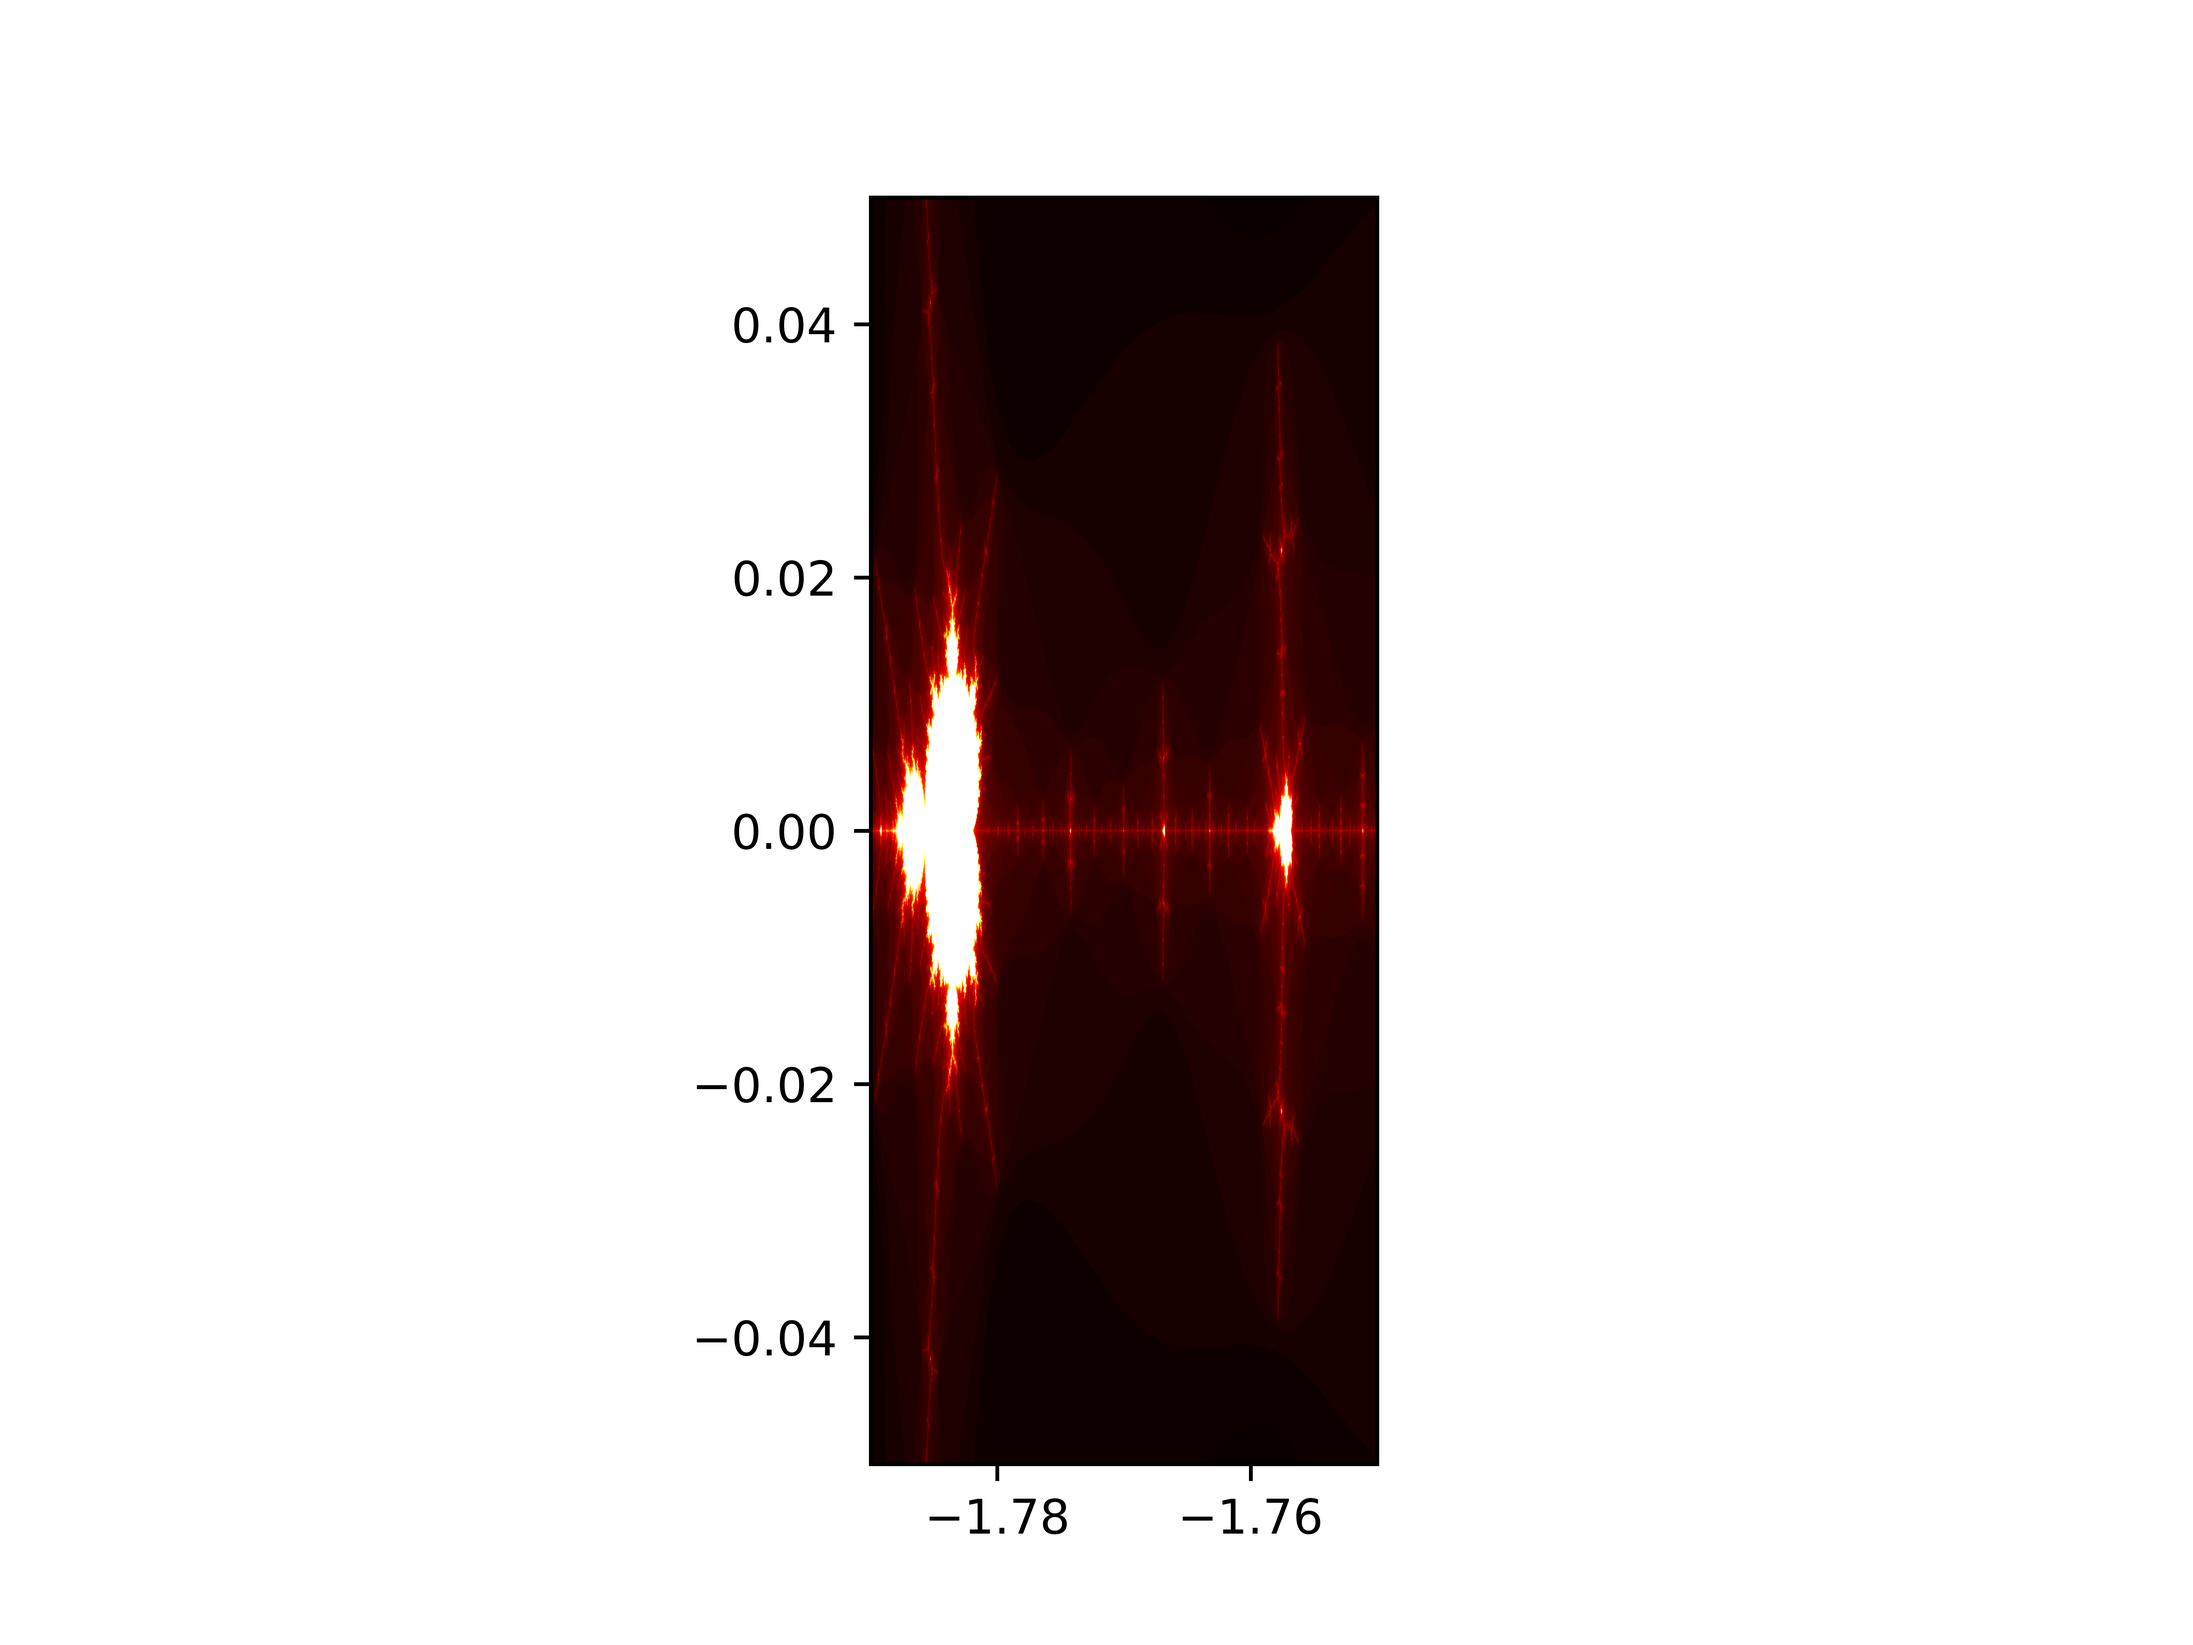
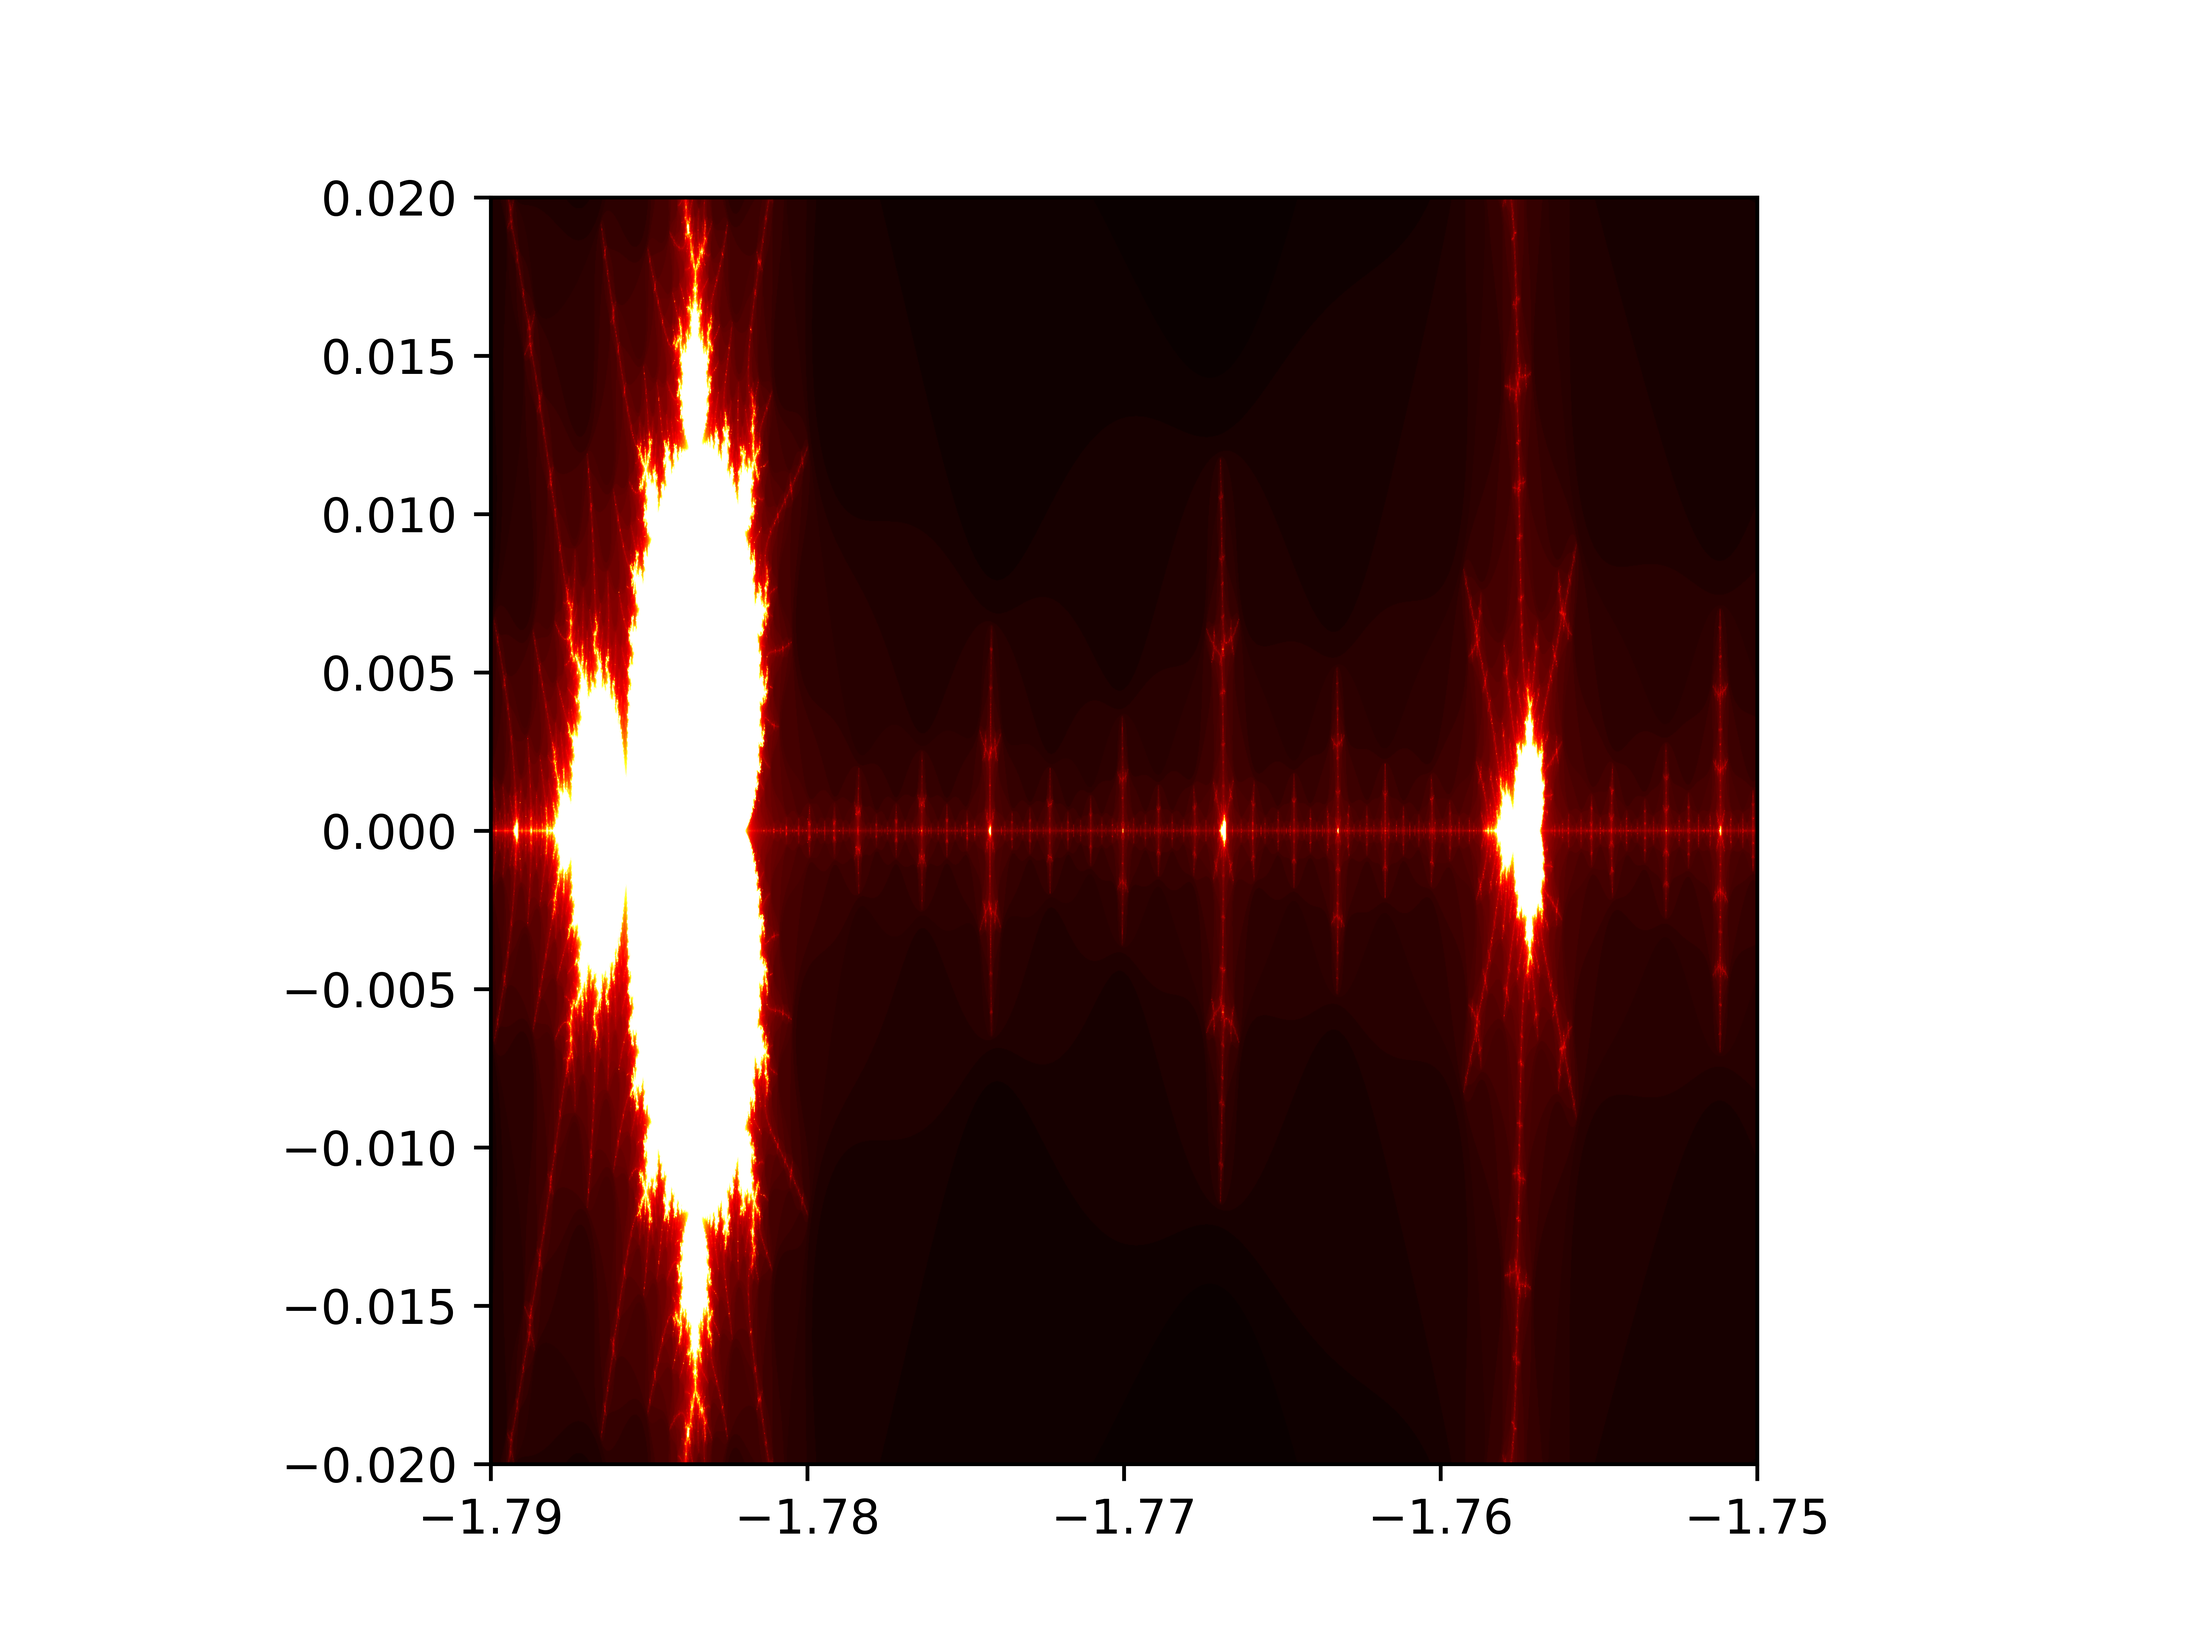
from Pycharm

diff --git a/Mandelbrot3.py b/Mandelbrot3.py
@@ -16,12 +16,12 @@ columns = 2000
 rows = 2000
 
 result = np.zeros([rows, columns])
-for row_index, Re in enumerate(np.linspace(-1.79,-1.59,num=rows)):
+for row_index, Re in enumerate(np.linspace(-1.79,-1.78,num=rows)):
     for columns_index, Im in enumerate(np.linspace(-0.02,0.02,num=columns)):
-        result[row_index, columns_index] = Mandelbrot(Re , Im , 100)
+        result[row_index, columns_index] = Mandelbrot(Re , Im , 1000)
 
 plt.figure(dpi=100)
-plt.imshow(result.T, cmap = 'hot', interpolation='bilinear', extent=[-1.79,-1.75,-0.02,0.02])
+plt.imshow(result.T, cmap = 'hot', interpolation='bilinear', extent=[-1.79,-1.78,-0.02,0.02])
 plt.savefig('image1.jpg', format='png', dpi=1000)
 plt.show()
 
